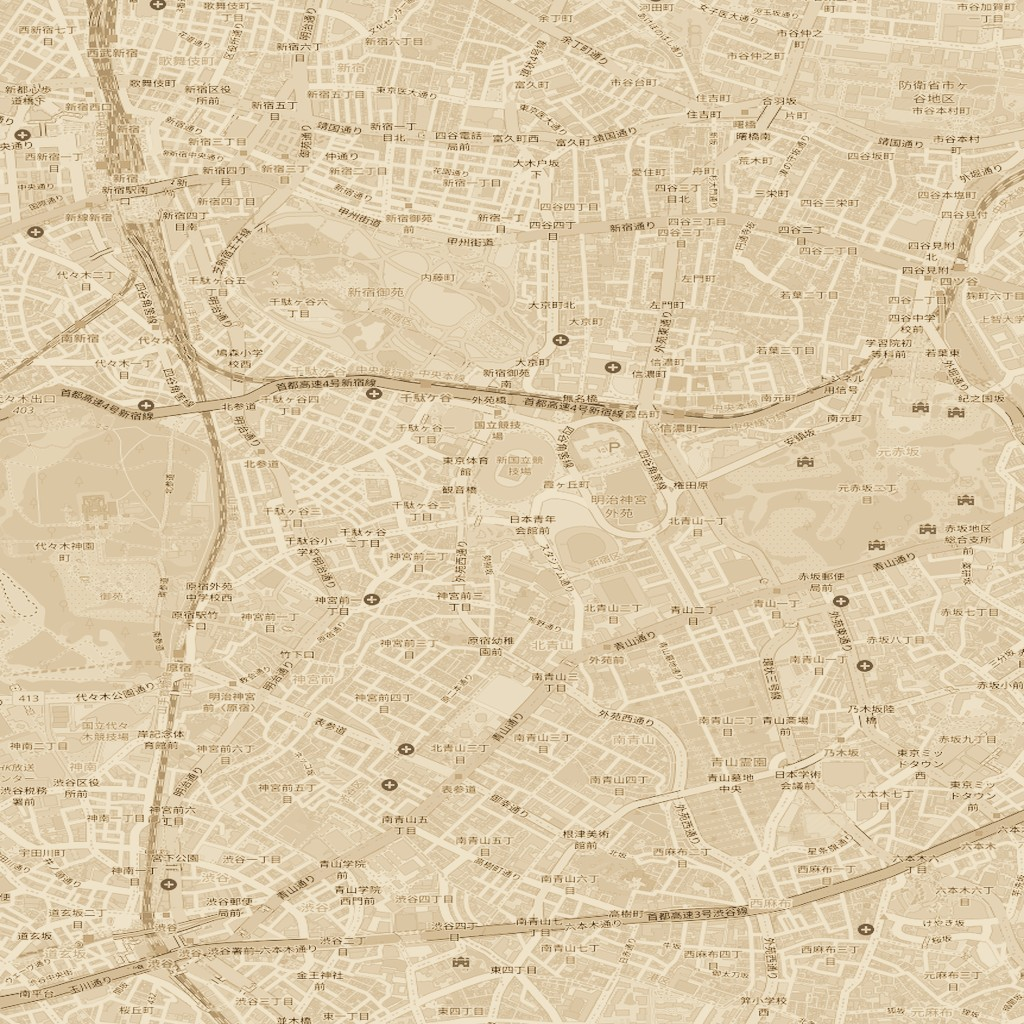
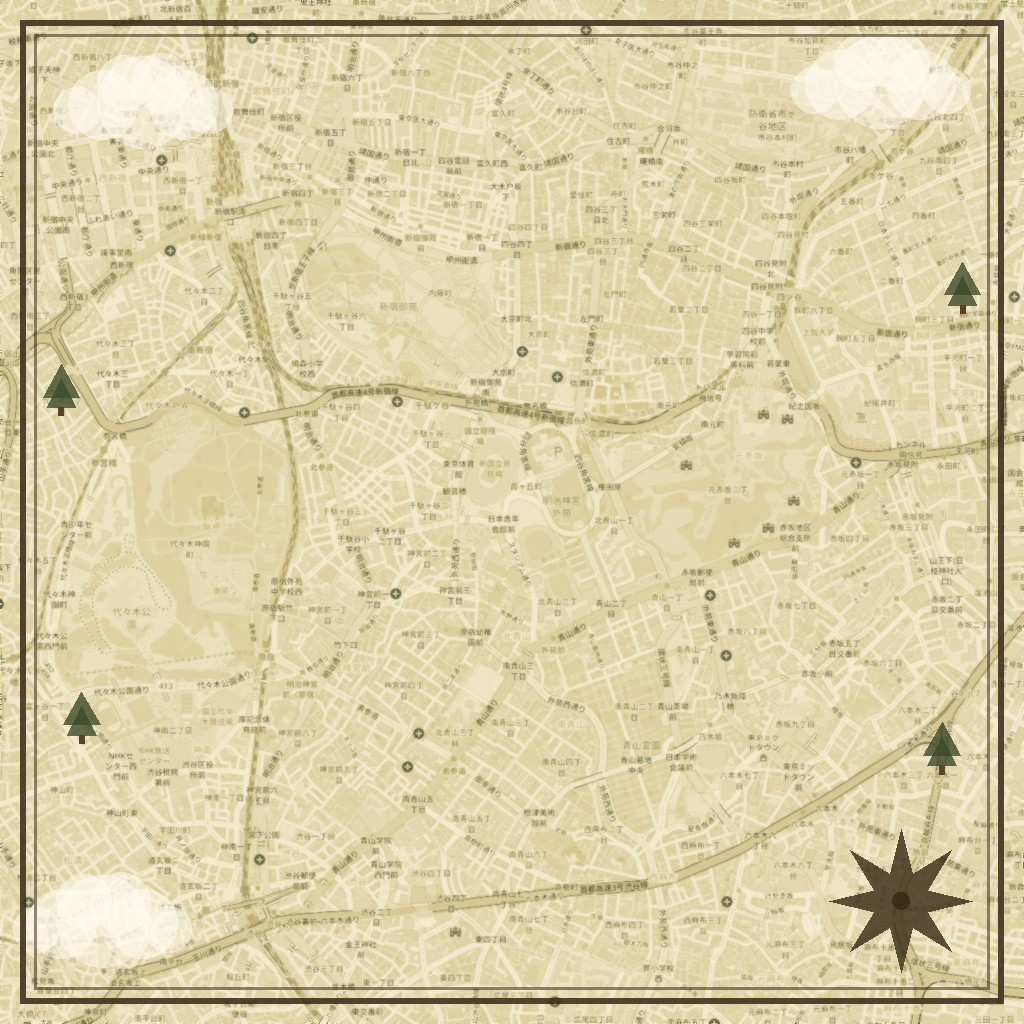
アニメ聖地巡礼を「古地図風」から独自のファンタジー地図デザインに変更し、ジブリ映画の聖地巡りを追加
「君の名は。」と新規追加の「ジブリ映画の聖地巡り」は、他の古地図（史実の古地図・現在の地図の
セピア加工）と区別するため、深緑〜クリーム〜淡い金の配色・紙の質感・雲や木のシルエット・
コンパスローズ・二重線の縁飾りを加えた、汎用のファンタジー地図デザインに変更した
（特定の作品のキャラクター・場面は再現していない）。

「ジブリ映画の聖地巡り」には、三鷹の森ジブリ美術館・井の頭恩賜公園・江戸東京たてもの園
（千と千尋の神隠しの参考地）・聖蹟桜ヶ丘（耳をすませばの舞台）・日テレ大時計（宮崎駿デザイン）
の東京都内5箇所をチェックポイントとして追加。「君の名は。」の位置合わせ座標も、
GMSGroundOverlayの引き伸ばしを避けるため実距離で正方形になるよう再計算した。

iOS/Web両方のカタログ・画像アセットを追加し、Web版のHistoricSiteCatalogはiOS版の
HistoricSite.swiftから再生成した。

diff --git a/Komap/Models/HistoricalOverlayMap.swift b/Komap/Models/HistoricalOverlayMap.swift
@@ -280,18 +280,32 @@ enum OldMapCatalog {
         northEast: CLLocationCoordinate2D(latitude: 35.6929946320988, longitude: 139.74609375)
     )
 
-    // 現在の地図（OpenStreetMap）から新宿御苑・四谷・原宿・渋谷一帯を取得し、セピア調フィルターを
-    // かけて古地図風に加工した画像。実際の歴史史料ではなく、映画『君の名は。』の聖地巡礼スポットを
-    // めぐるための現代のチェックポイント集（`akasakaKioicho`等と同じ「現在の地図から加工した
-    // 古地図風画像」の扱い）。
+    // 「アニメ聖地巡礼」向けは、他の古地図（史実の古地図・現在の地図をセピア加工したもの）と
+    // 区別するため、現在の地図（OpenStreetMap）から作った「ファンタジー地図」風の画像を使う。
+    // 深緑〜クリーム〜淡い金の配色、紙の質感、雲・木・コンパスローズ・二重線の縁飾りを加えた、
+    // 特定の作品のキャラクター・場面を再現しない汎用の冒険地図風デザイン。位置合わせ座標は、
+    // 実際の緯度経度に対して正方形（縦横比1:1、GMSGroundOverlayの引き伸ばしを避けるため）
+    // になるよう計算している。
     static let kiminonaSeichi = HistoricalOverlayMap(
         id: "kiminona-seichi",
         title: "「君の名は。」聖地巡礼",
         era: "現代（映画『君の名は。』の聖地巡礼スポット）",
         summary: "須賀神社の男坂石段や四ツ谷駅など、映画『君の名は。』の舞台として知られる新宿・四谷・原宿・渋谷一帯の聖地巡礼スポットをめぐります。",
         imageAssetName: "OldMap_KiminonaSeichi",
-        southWest: CLLocationCoordinate2D(latitude: 35.655, longitude: 139.696),
-        northEast: CLLocationCoordinate2D(latitude: 35.697, longitude: 139.733)
+        southWest: CLLocationCoordinate2D(latitude: 35.6535, longitude: 139.6881),
+        northEast: CLLocationCoordinate2D(latitude: 35.6985, longitude: 139.7433)
+    )
+
+    // ジブリ作品の聖地は三鷹・小金井・多摩・港区など東京都内に広く点在するため、
+    // `goshikiFudo`と同様に広域を1枚でカバーするファンタジー地図にしている。
+    static let ghibliSeichi = HistoricalOverlayMap(
+        id: "ghibli-seichi",
+        title: "ジブリ映画の聖地巡り",
+        era: "現代（スタジオジブリ作品の聖地巡礼スポット）",
+        summary: "三鷹の森ジブリ美術館や「耳をすませば」の聖蹟桜ヶ丘、「千と千尋の神隠し」の参考地とされる江戸東京たてもの園など、東京都内に点在するジブリ作品ゆかりのスポットをめぐります。",
+        imageAssetName: "OldMap_GhibliSeichi",
+        southWest: CLLocationCoordinate2D(latitude: 35.5439, longitude: 139.440),
+        northEast: CLLocationCoordinate2D(latitude: 35.8112, longitude: 139.768)
     )
 
     /// 選択可能な古地図の一覧
@@ -300,7 +314,7 @@ enum OldMapCatalog {
         goshikiFudo, bashoOkuNoHosomichi, akasakaKioicho,
         tokaido, nakasendo,
         meijiJinguOmotesando, oyamaKaido, kagurazakaWasedaShinjuku,
-        kiminonaSeichi,
+        kiminonaSeichi, ghibliSeichi,
     ]
 
     /// 古地図選択シートでの分類（`OldMapPickerSheet`のセクション分けに使う）。
@@ -324,6 +338,7 @@ enum OldMapCatalog {
         bashoOkuNoHosomichi.id: .kaido,
         goshikiFudo.id: .kaido,
         kiminonaSeichi.id: .animePilgrimage,
+        ghibliSeichi.id: .animePilgrimage,
     ]
 
     /// この古地図が属する分類。同梱リストにない（ユーザーが検索して追加した）古地図は`nil`。

diff --git a/Komap/Models/HistoricSite.swift b/Komap/Models/HistoricSite.swift
@@ -691,6 +691,43 @@ enum HistoricSiteCatalog {
             summary: "渋谷スクランブル交差点に面する複合施設。劇中の渋谷の雑踏シーンのモデル地。",
             coordinate: CLLocationCoordinate2D(latitude: 35.6597, longitude: 139.7016)
         ),
+
+        // ジブリ映画の聖地巡り（東京都内）
+        HistoricSite(
+            id: "ghibli-museum-mitaka",
+            overlayMapID: OldMapCatalog.ghibliSeichi.id,
+            name: "三鷹の森ジブリ美術館",
+            summary: "スタジオジブリが手がけた、映画の世界観をそのまま体感できる美術館。井の頭恩賜公園の南側にある。",
+            coordinate: CLLocationCoordinate2D(latitude: 35.6960, longitude: 139.5704)
+        ),
+        HistoricSite(
+            id: "ghibli-inokashira-park",
+            overlayMapID: OldMapCatalog.ghibliSeichi.id,
+            name: "井の頭恩賜公園",
+            summary: "三鷹の森ジブリ美術館に隣接する緑豊かな公園。池のボート乗り場は散策の定番コース。",
+            coordinate: CLLocationCoordinate2D(latitude: 35.7024, longitude: 139.5738)
+        ),
+        HistoricSite(
+            id: "ghibli-edo-tokyo-open-air-museum",
+            overlayMapID: OldMapCatalog.ghibliSeichi.id,
+            name: "江戸東京たてもの園",
+            summary: "移築復元された昭和期の建物群。「千と千尋の神隠し」の油屋の参考になった地としてスタジオジブリも認めている。",
+            coordinate: CLLocationCoordinate2D(latitude: 35.7168, longitude: 139.5083)
+        ),
+        HistoricSite(
+            id: "ghibli-seiseki-sakuragaoka",
+            overlayMapID: OldMapCatalog.ghibliSeichi.id,
+            name: "聖蹟桜ヶ丘駅前",
+            summary: "「耳をすませば」の舞台。夕暮れ時の「耳丘」からの眺めは、物語のクライマックスと同じ景色。",
+            coordinate: CLLocationCoordinate2D(latitude: 35.6390, longitude: 139.4487)
+        ),
+        HistoricSite(
+            id: "ghibli-shiodome-clock",
+            overlayMapID: OldMapCatalog.ghibliSeichi.id,
+            name: "日テレ大時計",
+            summary: "日本テレビタワー2階に設置された、宮崎駿監督デザインのからくり時計。1日に数回、仕掛けが動き出す。",
+            coordinate: CLLocationCoordinate2D(latitude: 35.6607, longitude: 139.7597)
+        ),
     ]
 
     static func site(withID id: String) -> HistoricSite? {

diff --git a/web/src/lib/historicSiteCatalog.ts b/web/src/lib/historicSiteCatalog.ts
@@ -101,6 +101,11 @@ export const HISTORIC_SITE_CATALOG: HistoricSiteEntry[] = [
   { id: "kiminona-busta-shinjuku", name: "バスタ新宿", overlayMapID: "kiminona-seichi", coordinate: { lat: 35.6886, lng: 139.7008 } },
   { id: "kiminona-cafe-la-boheme", name: "カフェ・ラ・ボエム（新宿御苑店）", overlayMapID: "kiminona-seichi", coordinate: { lat: 35.6903, lng: 139.7154 } },
   { id: "kiminona-shibuya-tsutaya", name: "SHIBUYA TSUTAYA", overlayMapID: "kiminona-seichi", coordinate: { lat: 35.6597, lng: 139.7016 } },
+  { id: "ghibli-museum-mitaka", name: "三鷹の森ジブリ美術館", overlayMapID: "ghibli-seichi", coordinate: { lat: 35.6960, lng: 139.5704 } },
+  { id: "ghibli-inokashira-park", name: "井の頭恩賜公園", overlayMapID: "ghibli-seichi", coordinate: { lat: 35.7024, lng: 139.5738 } },
+  { id: "ghibli-edo-tokyo-open-air-museum", name: "江戸東京たてもの園", overlayMapID: "ghibli-seichi", coordinate: { lat: 35.7168, lng: 139.5083 } },
+  { id: "ghibli-seiseki-sakuragaoka", name: "聖蹟桜ヶ丘駅前", overlayMapID: "ghibli-seichi", coordinate: { lat: 35.6390, lng: 139.4487 } },
+  { id: "ghibli-shiodome-clock", name: "日テレ大時計", overlayMapID: "ghibli-seichi", coordinate: { lat: 35.6607, lng: 139.7597 } },
 ];
 
 export function findHistoricSite(id: string | null): HistoricSiteEntry | undefined {

diff --git a/web/src/lib/oldMapCatalog.ts b/web/src/lib/oldMapCatalog.ts
@@ -124,8 +124,16 @@ export const OLD_MAP_CATALOG: OldMapEntry[] = [
     title: "「君の名は。」聖地巡礼",
     era: "現代（映画『君の名は。』の聖地巡礼スポット）",
     imageUrl: "/old-maps/old_map_kiminona_seichi.jpg",
-    southWest: { lat: 35.655, lng: 139.696 },
-    northEast: { lat: 35.697, lng: 139.733 },
+    southWest: { lat: 35.6535, lng: 139.6881 },
+    northEast: { lat: 35.6985, lng: 139.7433 },
+  },
+  {
+    id: "ghibli-seichi",
+    title: "ジブリ映画の聖地巡り",
+    era: "現代（スタジオジブリ作品の聖地巡礼スポット）",
+    imageUrl: "/old-maps/old_map_ghibli_seichi.jpg",
+    southWest: { lat: 35.5439, lng: 139.44 },
+    northEast: { lat: 35.8112, lng: 139.768 },
   },
 ];
 
